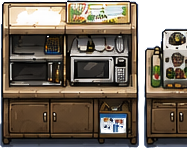
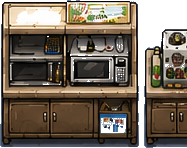
fix(shop): 道具抠图改二值 alpha，去掉商店地图的半透明鬼影
T3。用户报「商店地图中间货架有鬼影 / 空格」。

根因：NewArtShopMapBuilder.CropProp 用颜色键连续过渡抠图
（alpha = Clamp01((distance - 0.07) / 0.18)）。与键色距离落在 0.07~0.25
之间的描边 / 阴影像素会拿到中间 alpha（实测全道具 1%~30% 的像素是半透明），
铺进场景就是一层脏影子；中间货架面积大、又在中场，最显眼。

修法：
- 新增 ColorKeyCutoff = 0.16（原过渡区间中点），alpha 硬切成 0 / 1，
  像素风不留中间值。
- 新增正式菜单 Tools/Student Growth/New Art/Regenerate Shop Props Only，
  只重生成道具 PNG、**不动场景**（RebuildShopMapSceneWithNewArt 会整间重建，
  把场景里手挂的扭蛋机与对话引用一起冲掉）。

验证：
- 26 个道具 PNG 重生成后，半透明像素占比全部归零（重生成前 0.96%~29.69%）。
- 对照截图（同一相机状态，回滚旧 PNG 重拍）：shop-ghost-before / -after-20261028.png。
  像素差 5.44%，集中在各道具边缘；货架上方那层重影消失。
- 编译 0 error。
- 副作用已清：ConfigureSourceImporters 会把 Props 目录 PPU 统一设成 16，
  顺手改掉了手挂的 capsule_machine_placeholder.png.meta（24 → 16，扭蛋机放大 1.5 倍），
  已回滚该 meta。**以后再跑这个菜单要复查这个 meta。**

diff --git a/Assets/Editor/StudentGrowth/NewArtShopMapBuilder.cs b/Assets/Editor/StudentGrowth/NewArtShopMapBuilder.cs
@@ -34,6 +34,12 @@ namespace StudentGrowth.Editor
         private const string ShopOwnerAnimatorPath = "Assets/Animations/StudentGrowth/New2_0/ShopMap/ShopOwner.controller";
 
         private const float Ppu = 16f;
+        /// <summary>
+        /// 颜色键抠图的硬切阈值（2026-10-28）。取原连续过渡区间 0.07~0.25 的中点：
+        /// 与键色距离小于它判为背景（全透明），否则判为实体（不透明）。
+        /// 像素风不允许中间 alpha，否则场景里会出现半透明鬼影。
+        /// </summary>
+        private const float ColorKeyCutoff = 0.16f;
         private static readonly Color BackgroundColorFallback = new Color32(149, 166, 196, 255);
 
         [MenuItem("Tools/Student Growth/New Art/Rebuild ShopMapScene With New2_0")]
@@ -47,6 +53,23 @@ namespace StudentGrowth.Editor
             AssetDatabase.SaveAssets();
             AssetDatabase.Refresh();
             Debug.Log("ShopMapScene rebuilt as editable New2_0 Tilemap scene.");
+        }
+
+        /// <summary>
+        /// 只重生成商店道具 PNG（2026-10-28 新增）。
+        /// 用途：改了 CropProp 的抠图规则、只想刷新道具贴图时用。
+        /// **不要**为此跑 RebuildShopMapSceneWithNewArt —— 那个会整间重建场景，
+        /// 把场景里手挂的扭蛋机、对话引用一起冲掉。
+        /// </summary>
+        [MenuItem("Tools/Student Growth/New Art/Regenerate Shop Props Only")]
+        public static void RegeneratePropsOnly()
+        {
+            EnsureFolders();
+            ConfigureSourceImporters();
+            GenerateAssets();
+            AssetDatabase.SaveAssets();
+            AssetDatabase.Refresh();
+            Debug.Log("[Shop] 道具 PNG 已按新抠图规则重生成（场景未动）。");
         }
 
         [MenuItem("Tools/Student Growth/New Art/Verify ShopMapScene New2_0")]
@@ -324,8 +347,12 @@ namespace StudentGrowth.Editor
                     int sy = source.height - (topY + height) + y;
                     Color pixel = source.GetPixel(sx, sy);
                     float distance = ColorDistance(pixel, key);
-                    float alpha = Mathf.Clamp01((distance - 0.07f) / 0.18f);
-                    pixel.a = alpha;
+                    // 2026-10-28：像素风必须二值 alpha。
+                    // 原来是 Clamp01((distance - 0.07) / 0.18) 的连续过渡，颜色键附近的
+                    // 描边 / 阴影像素会拿到 0.07~0.25 之间的中间 alpha，铺到场景里就是
+                    // 半透明鬼影（商店中间货架最明显，中场上飘一层脏影子）。
+                    // 改成按中点硬切：离键色够远就是实心，够近就全透明，不留中间值。
+                    pixel.a = distance <= ColorKeyCutoff ? 0f : 1f;
                     raw.SetPixel(x, y, pixel);
                 }
             }
